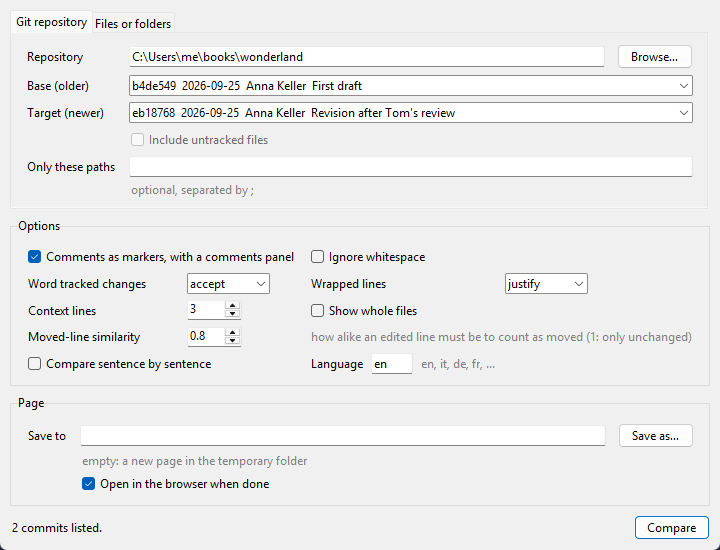
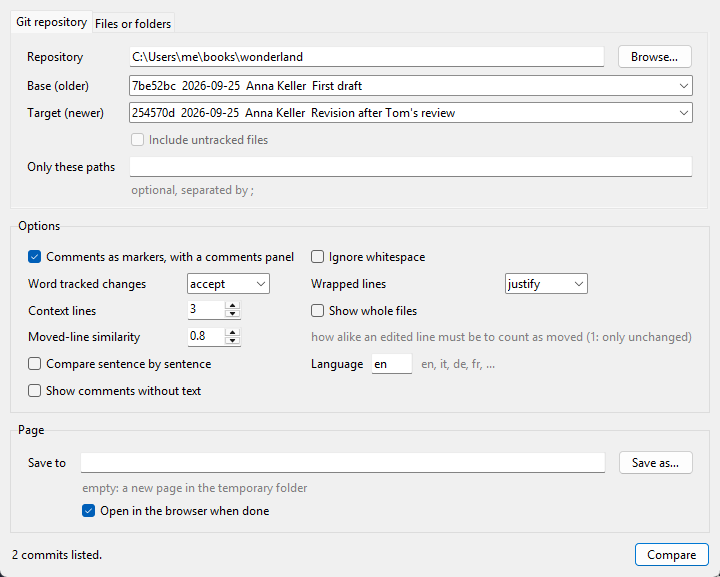
Comments without text left out; --empty-comments to show them
A comment with no text says nothing: it gets no marker and no entry in
the comments panel, unless --empty-comments (a checkbox in the window)
asks for it, in which case the panel lists it as "(no text)".

diff --git a/src/sidediff/diff.py b/src/sidediff/diff.py
@@ -885,6 +885,7 @@ def build_files(
     md_filter: str | None,
     ignore_whitespace: bool,
     fold: bool,
+    empty_comments: bool = False,
     max_hidden: int | None,
     docx_changes: str,
     move_similarity: float = MOVE_SIMILARITY,
@@ -930,8 +931,8 @@ def build_files(
         new_text = new_bytes.decode("utf-8", errors="replace")
         # Folded before filtering, so a filter cannot cut a comment in two.
         if fold and fd.markdown:
-            old_text = fold_comments(old_text, comments)
-            new_text = fold_comments(new_text, comments)
+            old_text = fold_comments(old_text, comments, empty_comments)
+            new_text = fold_comments(new_text, comments, empty_comments)
         if md_filter and fd.markdown:
             if old_text:
                 old_text = run_filter(md_filter, old_text, fd.path)
@@ -1053,6 +1054,7 @@ def compare(
     untracked: bool = False,
     ignore_whitespace: bool = False,
     fold_comments_md: bool = True,
+    empty_comments: bool = False,
     max_hidden: int | None = MAX_HIDDEN,
     docx_changes: str = "accept",
     move_similarity: float = MOVE_SIMILARITY,
@@ -1072,7 +1074,8 @@ def compare(
     fold_comments_md (on by default) shows each pandoc comment span of a
     Markdown file, [note]{.comment-start ...}, as a marker whose tooltip is
     the comment, and lists the comments in a panel; off, the comment markup
-    is compared as text. max_hidden caps the unchanged lines
+    is compared as text. Comments without text are left out, unless
+    empty_comments. max_hidden caps the unchanged lines
     embedded per gap. docx_changes settles the tracked changes of Word
     documents: "accept", "reject" or "all" (kept as markup).
     move_similarity is how alike, from 0 to 1, an edited line must be to
@@ -1123,6 +1126,7 @@ def compare(
         md_filter=md_filter,
         ignore_whitespace=ignore_whitespace,
         fold=fold_comments_md,
+        empty_comments=empty_comments,
         max_hidden=max_hidden,
         docx_changes=docx_changes,
         move_similarity=move_similarity,
@@ -1175,6 +1179,7 @@ def compare_paths(
     *,
     ignore_whitespace: bool = False,
     fold_comments_md: bool = True,
+    empty_comments: bool = False,
     max_hidden: int | None = MAX_HIDDEN,
     docx_changes: str = "accept",
     move_similarity: float = MOVE_SIMILARITY,
@@ -1228,6 +1233,7 @@ def compare_paths(
         md_filter=md_filter,
         ignore_whitespace=ignore_whitespace,
         fold=fold_comments_md,
+        empty_comments=empty_comments,
         max_hidden=max_hidden,
         docx_changes=docx_changes,
         move_similarity=move_similarity,

diff --git a/tests/test_comments.py b/tests/test_comments.py
@@ -33,6 +33,38 @@ def test_nested_brackets_in_the_note():
     assert folded[2] != "[" and comments.get(folded[2]).text == "see [1] and [2]"
 
 
+def test_comments_without_text_are_left_out():
+    comments = Comments()
+    empty = '[]{.comment-start id="4" author="A" date="2026-09-23T10:00:00Z"}'
+    blank = '[  ]{.comment-start id="5" author="B"}'
+    folded = fold_comments(f"One{empty} two{blank} three{NOTE}.", comments)
+    assert len(comments) == 1  # only the comment with text
+    assert PLACEHOLDER.sub("", folded) == "One two three."
+    # kept on request: a marker each, "(no text)" where the text would be
+    comments = Comments()
+    folded = fold_comments(f"One{empty} two{blank} three{NOTE}.", comments, keep_empty=True)
+    assert len(comments) == 3  # the two empty ones (by A and by B) and the note
+    html = str(show_comments(folded, comments))
+    assert 'aria-label="comment by A, 2026-09-23 10:00: (no text)"' in html
+
+
+def test_empty_comments_switch(builder, tmp_path, capsys):
+    from sidediff.cli import main
+
+    empty = '[]{.comment-start id="4" author="Anna" date="2026-09-23T10:00:00Z"}'
+    builder.write("p.md", "Text.\n")
+    base = builder.commit("first")
+    builder.write("p.md", f"Text.{empty}\n")
+    target = builder.commit("second")
+    assert compare(builder.path, base, target).comments == []
+    c = compare(builder.path, base, target, empty_comments=True)
+    assert [(e.author, e.text, e.status) for e in c.comments] == [("Anna", "", "new")]
+    assert ">(no text)</a>" in render(c)
+    out = tmp_path / "r.html"
+    assert main([str(builder.path), base, target, "--empty-comments", "-o", str(out)]) == 0
+    assert ">(no text)</a>" in out.read_text(encoding="utf-8")
+
+
 def test_other_spans_and_links_untouched():
     text = "[link](http://x) and [word]{.smallcaps} and \\[not\\]{.comment-start}"
     assert fold_comments(text, Comments()) == text

diff --git a/src/sidediff/gui.py b/src/sidediff/gui.py
@@ -73,6 +73,7 @@ class Settings:
     old: str = ""
     new: str = ""
     fold_comments: bool = True
+    empty_comments: bool = False
     docx_changes: str = "accept"
     align: str = "justify"
     context: int = 3
@@ -196,6 +197,7 @@ def generate(s: Settings) -> tuple[Path, Comparison]:
         context=None if s.full else s.context,
         ignore_whitespace=s.ignore_whitespace,
         fold_comments_md=s.fold_comments,
+        empty_comments=s.empty_comments,
         docx_changes=s.docx_changes,
         move_similarity=s.move_similarity,
         by_sentence=s.by_sentence,
@@ -345,6 +347,10 @@ class App:
         ttk.Checkbutton(opts, text="Compare sentence by sentence", variable=self.by_sentence).grid(
             row=4, column=0, columnspan=2, sticky="w", **pad
         )
+        self.empty_comments = tk.BooleanVar(value=self.s.empty_comments)
+        ttk.Checkbutton(opts, text="Show comments without text", variable=self.empty_comments).grid(
+            row=5, column=0, columnspan=2, sticky="w", **pad
+        )
         language = ttk.Frame(opts)
         language.grid(row=4, column=2, columnspan=2, sticky="w", **pad)
         ttk.Label(language, text="Language").pack(side="left")
@@ -477,6 +483,7 @@ class App:
             old=self.old.get().strip(),
             new=self.new.get().strip(),
             fold_comments=self.fold.get(),
+            empty_comments=self.empty_comments.get(),
             docx_changes=self.docx.get(),
             align=self.align.get(),
             context=context,

diff --git a/src/sidediff/comments.py b/src/sidediff/comments.py
@@ -37,7 +37,7 @@ class Comment:
         """The comment in one line, for screen readers."""
         who = f"comment by {self.author}" if self.author else "comment"
         when = f", {self.date}" if self.date else ""
-        return f"{who}{when}: {self.text}"
+        return f"{who}{when}: {self.text or '(no text)'}"
 
 
 @dataclass
@@ -127,8 +127,11 @@ def match_attrs(s: str, i: int) -> int:
     return -1
 
 
-def fold_comments(text: str, comments: Comments) -> str:
-    """Replace the pandoc comment spans of a Markdown text with placeholders."""
+def fold_comments(text: str, comments: Comments, keep_empty: bool = False) -> str:
+    """Replace the pandoc comment spans of a Markdown text with placeholders.
+
+    A comment without text is left out, unless keep_empty.
+    """
     out = []
     i = 0
     while i < len(text):
@@ -151,6 +154,10 @@ def fold_comments(text: str, comments: Comments) -> str:
                     date = DATE.search(attrs)
                     # Markdown escapes (\[ \* \_ ...) are not part of the comment
                     note = ESCAPE.sub(r"\1", " ".join(text[i + 1 : close].split()))
+                    if not note and not keep_empty:
+                        # a comment with no text says nothing: left out
+                        i = end + 1
+                        continue
                     mark = comments.placeholder(
                         author[1] if author else "",
                         note,

diff --git a/src/sidediff/cli.py b/src/sidediff/cli.py
@@ -123,6 +123,11 @@ def main(argv: list[str] | None = None) -> int:
         "(default: on; --no-fold-comments compares the comment markup as text)",
     )
     ap.add_argument(
+        "--empty-comments",
+        action="store_true",
+        help="show the comments that have no text too (left out by default)",
+    )
+    ap.add_argument(
         "--docx-changes",
         choices=DOCX_CHANGES,
         default="accept",
@@ -177,6 +182,7 @@ def main(argv: list[str] | None = None) -> int:
         md_filter=args.md_filter,
         ignore_whitespace=args.ignore_whitespace,
         fold_comments_md=args.fold_comments,
+        empty_comments=args.empty_comments,
         max_hidden=args.max_hidden,
         docx_changes=args.docx_changes,
         move_similarity=args.move_similarity,

diff --git a/README.md b/README.md
@@ -72,6 +72,7 @@ sidediff --files OLD NEW [options]
 | `--max-hidden N`           | unchanged lines embedded per gap for the page to reveal (default 500); longer gaps are left out, to keep the page light |
 | `--align left\|justify`    | alignment of wrapped lines (default left)                     |
 | `--no-fold-comments`       | compare the comment markup of Markdown and Word documents as text; by default each comment is shown as a 💬 marker (🆕 when added since the base), with the author, the comment and its date on hover, and listed in a panel |
+| `--empty-comments`         | also show the comments that have no text, left out by default (listed as "(no text)" in the panel) |
 | `--docx-changes accept\|reject\|all` | the tracked changes of Word documents: accept them (default), reject them, or show them as markup |
 | `--md-filter COMMAND`      | shell command (cmd.exe on Windows, sh elsewhere) both versions of every Markdown file are piped through, stdin to stdout, before comparing; line numbers are then those of the filtered text |
 | `--by-sentence`            | compare the prose of Markdown files and Word documents sentence by sentence instead of paragraph by paragraph: a sentence moved between paragraphs is recognised, and each sentence is labelled with its line and its place in it (`12.3`) |
